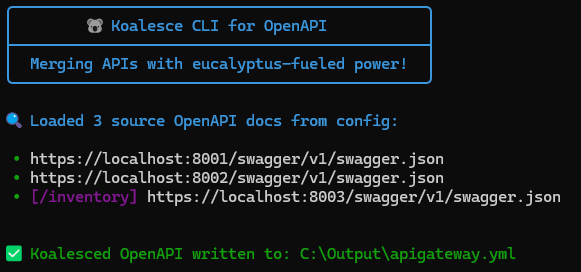
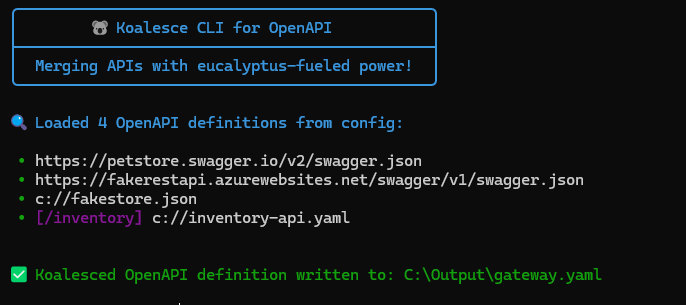
fix(cli): output improvements and bug fixes for v1.0.0-alpha.12.3 (#23)
* fix(cli): correct source display and refine terminology

* docs: updated changelog

diff --git a/src/Koalesce.OpenAPI.CLI/UI/KoalesceConsoleUI.cs b/src/Koalesce.OpenAPI.CLI/UI/KoalesceConsoleUI.cs
@@ -71,7 +71,7 @@ public static class KoalesceConsoleUI
 	/// <param name="sources">The list of OpenAPI URLs.</param>
 	public static void PrintSourceList(IEnumerable<ApiSource> sources)
 	{
-		Console.WriteLine($"{Cyan}🔍 Loaded {sources.Count()} source OpenAPI docs from config:{Reset}\n");
+		Console.WriteLine($"{Cyan}🔍 Loaded {sources.Count()} OpenAPI definitions from config:{Reset}\n");
 		foreach (var source in sources)
 		{			
 			string displayPrefix = "";
@@ -82,7 +82,8 @@ public static class KoalesceConsoleUI
 				displayPrefix = $"{Magenta}[/{cleanPrefix}]{Reset} ";
 			}
 			
-			Console.WriteLine($" {Green}•{Reset} {displayPrefix}{source.Url}");
+			string apiPath = source.Url ?? source.FilePath!;
+			Console.WriteLine($" {Green}•{Reset} {displayPrefix}{apiPath}");
 		}
 
 		Console.WriteLine();

diff --git a/src/Koalesce.OpenAPI.CLI/Services/MergedSpecificationWriter.cs b/src/Koalesce.OpenAPI.CLI/Services/MergedSpecificationWriter.cs
@@ -24,7 +24,7 @@ public class MergedSpecificationWriter : IMergedSpecificationWriter
 			);			
 
 			KoalesceConsoleUI
-				.PrintSuccess($"Koalesced OpenAPI written to: {Path.GetFullPath(outputPath)}");
+				.PrintSuccess($"Koalesced OpenAPI definition written to: {Path.GetFullPath(outputPath)}");
 		}
 		catch (UnauthorizedAccessException ex)
 		{

diff --git a/docs/cli/CHANGELOG.md b/docs/cli/CHANGELOG.md
@@ -5,6 +5,24 @@ All notable changes to this project will be documented in this file.
 
 ---
 
+## [1.0.0-alpha.12.3] - 2026-01-28
+
+### Changed
+
+- Changed message when displaying loaded sources
+  - From: "🔍 Loaded {SourcesCount} source OpenAPI docs from config:"
+  - To:   "🔍 Loaded {SourcesCount} OpenAPI definitions from config:"
+- Changed message when koalescing is finished
+  - From: "✅ Koalesced OpenAPI written to:"
+  - To:   "✅ Koalesced OpenAPI definition written to:"
+
+
+### Fixed
+
+- **Display FilePath:** FilePath is now displayed among the source list when used as a source.
+
+---
+
 ## [1.0.0-alpha.12.2] - 2026-01-28
 
 ### Changed
